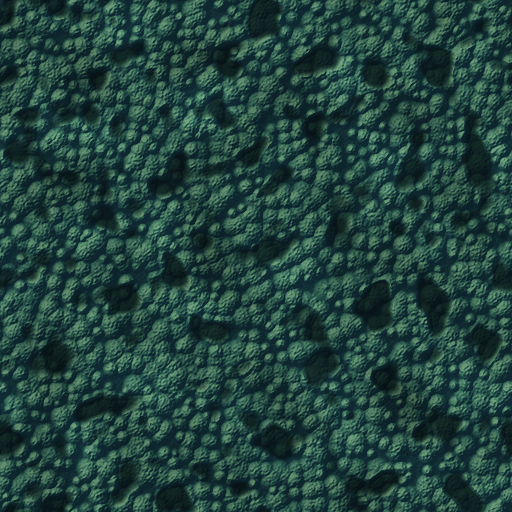
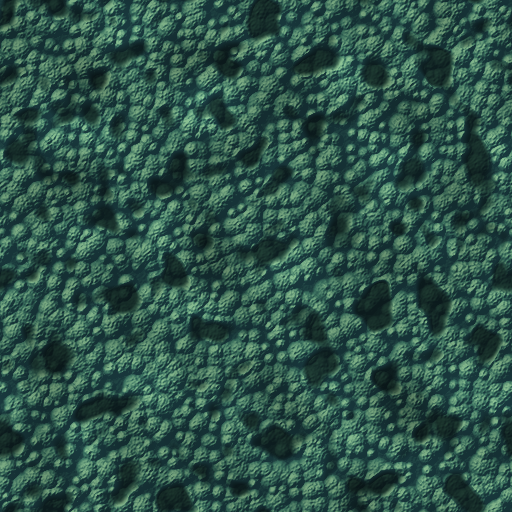
Gouache: brighter forest canopy, jungle as a lush green canopy
Claude-Session: https://claude.ai/code/session_01VGBb6mKQ3kspS5r6m29MiP

diff --git a/tools/hdart/canopy_texture.py b/tools/hdart/canopy_texture.py
@@ -12,8 +12,8 @@ from PIL import Image
 
 PALETTES = {
     # shadow, mid, highlight (sampled from satellite views of temperate forest)
-    'forest': ((14, 38, 46), (40, 84, 74), (100, 146, 112)),
-    'jungle': ((14, 42, 30), (44, 92, 52), (118, 160, 84)),
+    'forest': ((22, 50, 54), (54, 104, 88), (122, 170, 130)),
+    'jungle': ((20, 52, 30), (62, 112, 56), (146, 184, 92)),
 }
 
 
